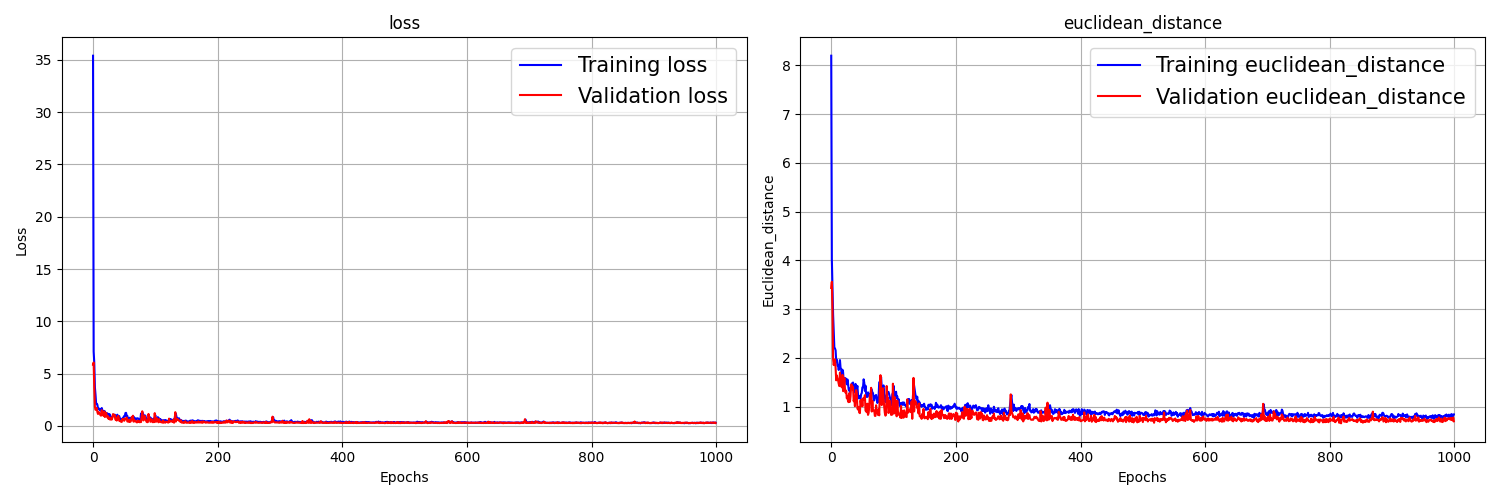
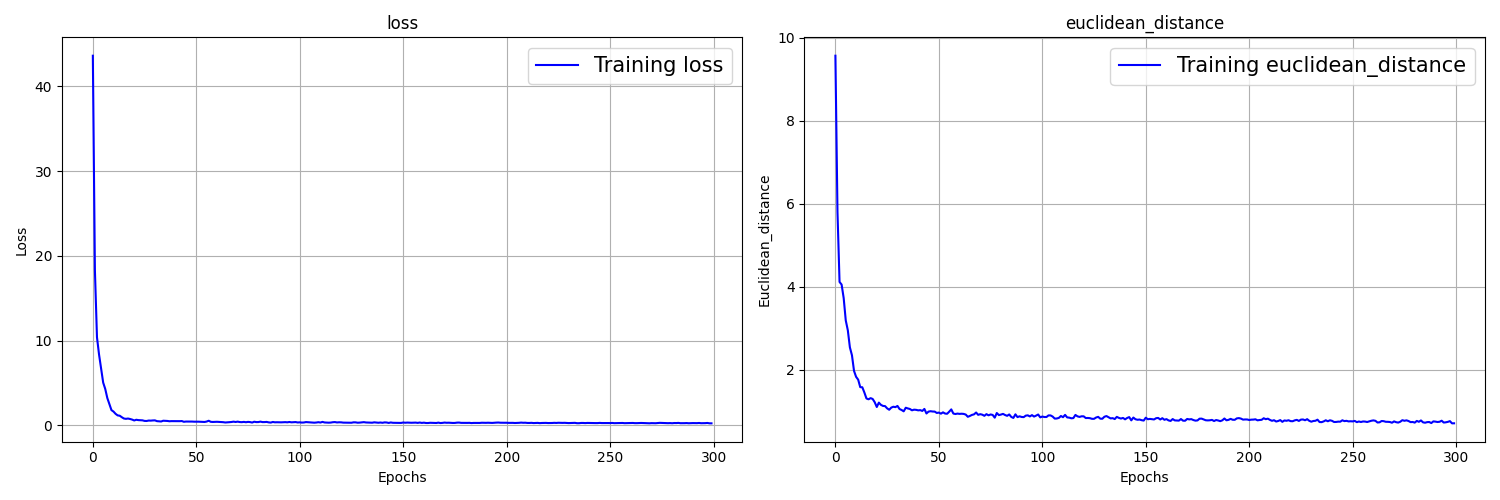
better learning curve with Adam as optimizer

diff --git a/oracle/cup/main.py b/oracle/cup/main.py
@@ -14,17 +14,17 @@ X = np.array(trainset[:, :-3])
 y = np.array(trainset[:, -3:])
 
 model = keras.Sequential([
-            layers.Input(shape=(X.shape[1],)),
-            layers.Dense(43, activation='tanh'),
-            layers.Dropout(0.2),
-            layers.Dense(56, activation='tanh'),
-            layers.Dense(3)
-        ])
+    layers.Input(shape=(X.shape[1],)),
+    layers.Dense(43, activation='tanh'),
+    layers.Dropout(0.2),
+    layers.Dense(56, activation='tanh'),
+    layers.Dense(3)
+])
 
-opt = keras.optimizers.SGD(learning_rate=0.004, momentum=0.9, weight_decay=0.0065)
+opt = keras.optimizers.Adam(learning_rate=0.004, weight_decay=0.0065, clipnorm=0.5)
 model.compile(loss='mse', metrics=['mse', Utils.euclidean_distance], optimizer=opt)
 
-h = model.fit(X, y, epochs=1000, validation_split=0.2)
+h = model.fit(X, y, epochs=500)
 
 print("Loss evaluate: " + str(model.evaluate(X, y)))
 print("Loss history: " + str(h.history['loss'][-1]))

diff --git a/oracle/cup/cup_hypermodel.py b/oracle/cup/cup_hypermodel.py
@@ -23,11 +23,7 @@ class CupHyperModel(kt.HyperModel):
             layers.Dense(3)
         ])
 
-        optimizer = keras.optimizers.SGD(
-            learning_rate=0.003,
-            momentum=0.9,
-            weight_decay=hp.Float('weight_decay', min_value=0.004, max_value=0.008, step=0.001),
-        )
+        optimizer = keras.optimizers.Adam(learning_rate=0.004, weight_decay=0.0065, clipnorm=0.5)
 
         model.compile(
             optimizer=optimizer,

diff --git a/oracle/cup/kfold.py b/oracle/cup/kfold.py
@@ -35,7 +35,7 @@ for train_index, val_index in kfold.split(X):
         layers.Dense(3)
     ])
 
-    opt = keras.optimizers.SGD(learning_rate=0.004, momentum=0.9, weight_decay=0.0065)
+    opt = keras.optimizers.Adam(learning_rate=0.004, weight_decay=0.0065, clipnorm=0.5)
     model.compile(loss='mse', metrics=['mse',Utils.euclidean_distance], optimizer=opt)
 
     early_stopping = EarlyStopping(monitor='val_loss', patience=19, restore_best_weights=True)
